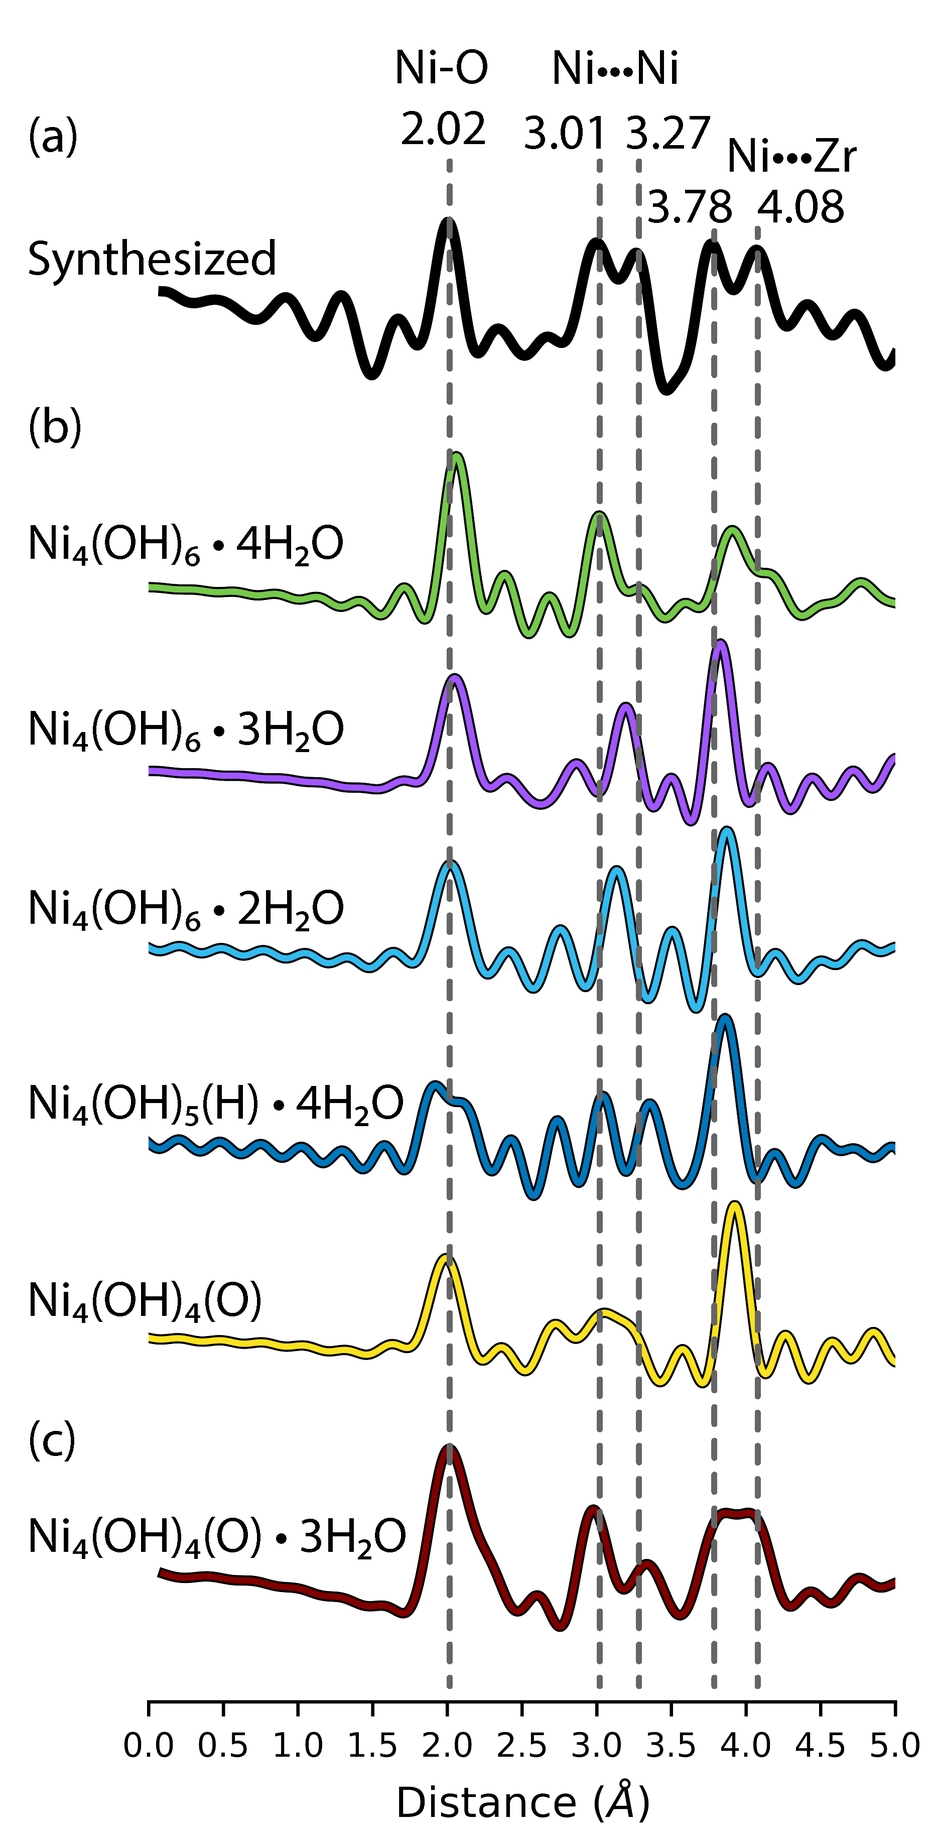
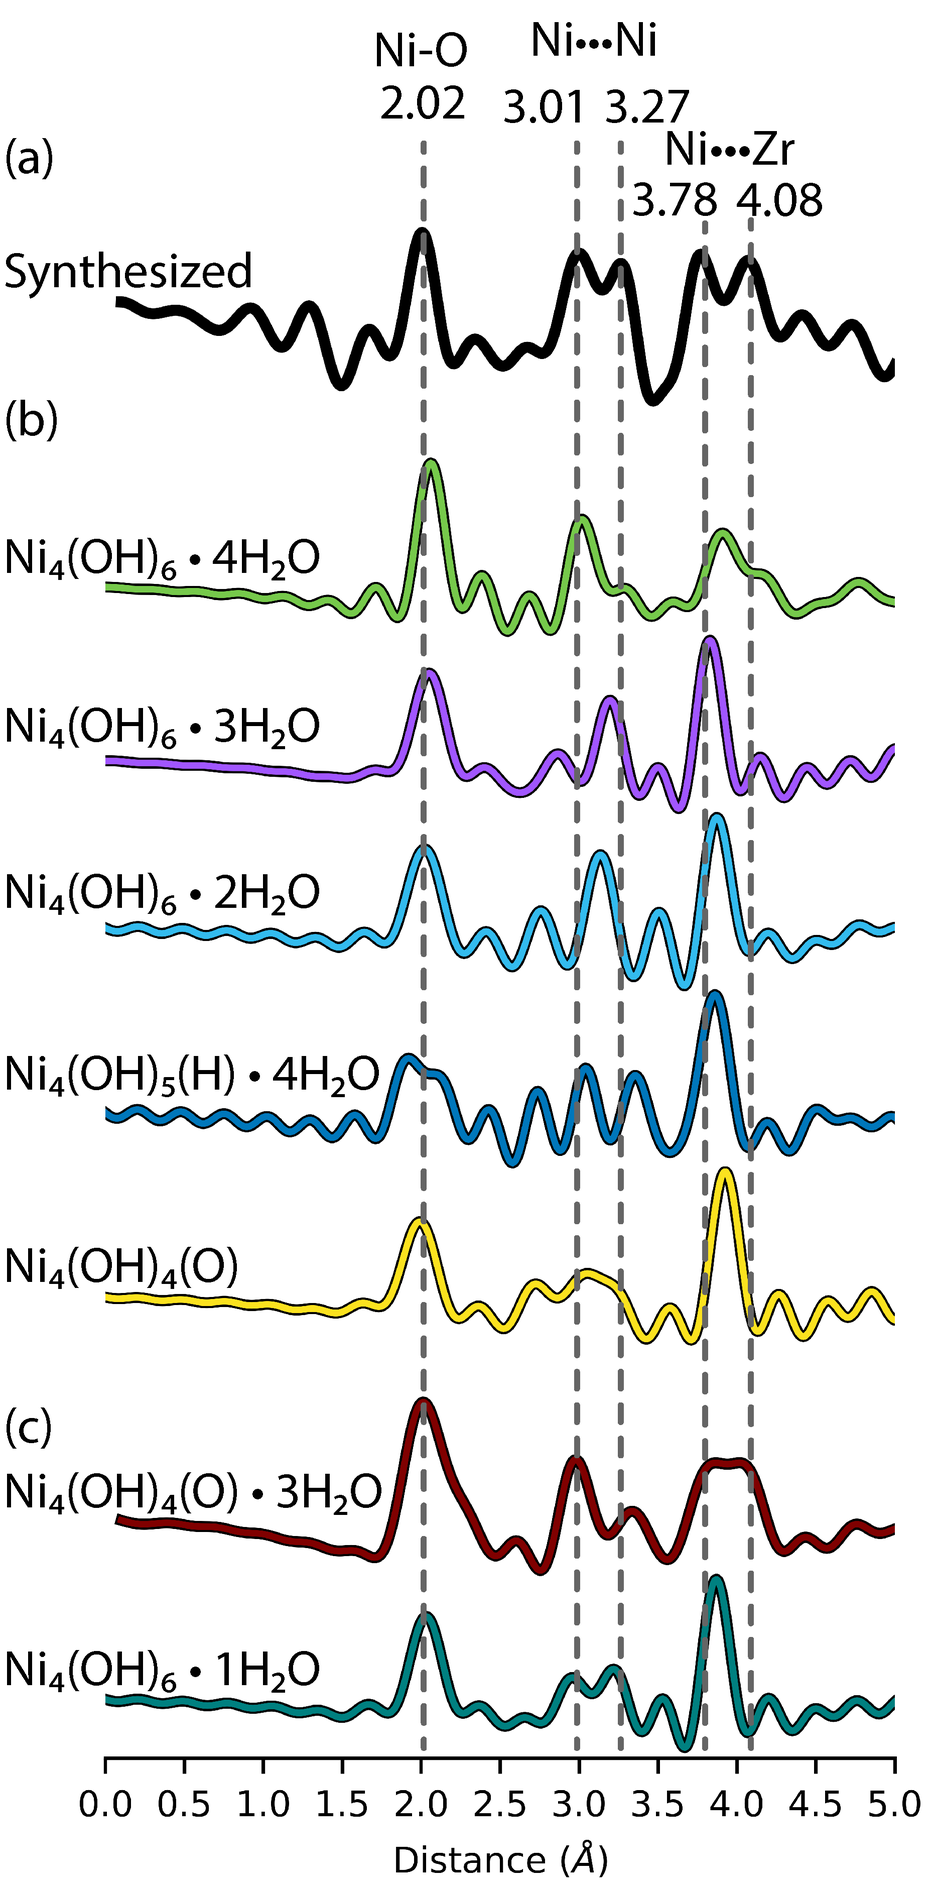
sending the charges to Overleaf as backup

diff --git a/outline.tex b/outline.tex
@@ -155,13 +155,15 @@ Heterogeneous catalysts exhibit dynamic changes in composition and structure as 
 %% Introduction
 %%%%%%%%%%%%%%%%%%%%%%%%%%%%%%%%%%%%%%%%%%%%%%%%%%%%%%%%%%%%%%%%%%%%%
 
-Single-site heterogeneous catalysts (SSHCs) contain well-defined, atomically dispersed active sites that are anchored to solid supports,\cite{Hlatky2000, Kaiser2020, Wasson2019} such as metal-organic frameworks (MOFs),\cite{Zheng2019, AbdelMageed2019, Huang2019} covalent-organic frameworks (COFs),\cite{Zhong2019, Romero-Muniz2020} zeolites,\cite{Mao2016, Kistler2014} and metal\cite{Patel2019, Pei2017, Jiao2019} and metal oxide surfaces.\cite{Bo2019, Riley2018, Tang2019} The atomically dispersed atoms are often 3d transition metals,\cite{Manna2016, Beyzavi2015} with the solid support providing a means to improve metal utilization and maintain well-defined active site structures.\cite{Qiao2011, Cui2017, Yang2013} The metal atoms are anchored to the support either directly (metal-metal bonds) or by organic ligands (e.g., \ce{OH}-ligands), with the attachment dependent on the type of support. In some cases, the ligand environments may be similar to homogeneous catalysts.\cite{Rogge2017} Also similar to homogeneous catalysts, active site structures for SSHCs can be tuned by changing the ligand environment and metal atoms. SSHCs are hence appealing for carrying out challenging chemistries.\cite{Thomas2005, Liu2019, Desai2018}
+Single-site heterogeneous catalysts (SSHCs) contain well-defined, atomically dispersed active sites that are anchored to solid supports,\cite{Hlatky2000, Kaiser2020, Wasson2019} such as metal-organic frameworks (MOFs),\cite{Zheng2019, AbdelMageed2019, Huang2019} covalent-organic frameworks (COFs),\cite{Zhong2019, Romero-Muniz2020} zeolites,\cite{Mao2016, Kistler2014} and metal\cite{Patel2019, Pei2017, Jiao2019} and metal oxide surfaces.\cite{Bo2019, Riley2018, Tang2019} The atomically dispersed atoms are often 3d transition metals,\cite{Manna2016, Beyzavi2015} with the solid support providing a means to improve metal utilization and maintain well-defined active site structures.\cite{Qiao2011, Cui2017, Yang2013} The metal atoms are anchored to the support either directly (metal-metal bonds) or by organic ligands (e.g., \ce{OH}-ligands), with the attachment dependent on the type of support. In some cases, the ligand environments may be similar to homogeneous catalysts.\cite{Rogge2017} Also similar to homogeneous catalysts, SSHCs can be tuned by changing the ligand environment and metal atoms. SSHCs are hence appealing for carrying out challenging chemistries.\cite{Thomas2005, Liu2019, Desai2018}
 
-For SSHCs, the structural environments (i.e, the coordinate ligands) of the metal atom centers drive the catalysis.\cite{DeRita2019} However, predicting the ligand environment of any SSHC is non-trivial due to the uniqueness of active site,\cite{Daelman2019, Tang2019} and is further complicated by structural changes induced by operating conditions.\cite{Li2018, Kim2015} Understanding the SSHC ligand environment is imperative to understand the catalytic mechanisms that occur. Difficulties in determining the precise active site for SSHCs remain an ongoing challenge, with a lack of structural information about the active site preventing detailed structures-function relationships between catalyst structure and performance.
+For SSHCs, the structural environments (i.e, the coordinate ligands) of the metal atom centers drive the catalysis.\cite{DeRita2019} However, predicting the ligand environment of SSHCs is non-trivial due to the variety of unique of active sites,\cite{Daelman2019, Tang2019} and this is further complicated when catalytic operating conditions induce non-intuitive structural and/or compositional changes.\cite{Li2018, Kim2015} As understanding the structure and composition of SSHCs is imperative to understanding catalytic mechanisms, difficulties in determining the precise active site for SSHCs remain an ongoing challenge, with this lack of information preventing construction of detailed structure-function relationships. 
 
-In this work, we seek to learn the composition and structure of a \ce{Ni} SSHC under conditions relevant to catalytic hydrogenation. \ce{Ni}-based catalysts are important in a variety of reactions, including ethene oligomerization using the Shell higher oligomers process (SHOP)\cite{1988Reuben} and the steam reforming of methane using the Catalytic Rich Gas (CRG) catalyst.\cite{Ross1973} Specifically, we investigate a \ce{Ni} cluster supported on the MOF NU-1000, herein denoted Ni-NU-1000. MOFs are porous crystals that consist of metal cation nodes connected by organic ``linker" molecules.\cite{Li1999} NU-1000 (Figure~\ref{fig:Ni-MOF-model}a) is comprised of \ce{Zr6(\mu_{3}-O)4(\mu_{3}-OH)4(H2O)4(OH)4} nodes interconnected with tetratopic 1,3,6,8-tetrakis (p-benzoate) pyrene (TBAPy) linkers. The \ce{Ni} ions are known to anchor to the NU-1000 nodes via the accessible \ce{-OH}/\ce{-OH2} ligands on the \ce{Zr6} nodes, with Atomic Layer Deposition in MOFs (AIM) depositing the \ce{Ni} atoms.\cite{Mondloch2013} Initially, the structure was thought to consist of a single divalent \ce{Ni} ion coordinated with zero to three \ce{H2O} ligands, depending on the operating conditions.\cite{Li2016sintering} However, difference envelope density (DED) analysis of powder diffraction data and electron microscopy later revealed that the catalyst is four \ce{Ni} ion cluster (\ce{Ni4O_{x}H_{y}}) and contains a combination of hydroxo (\ce{OH}) and water \ce{H2O} ligands.\cite{PlateroPrats2017} Additional computational studies by \citeauthor{Ye2017} then suggested the four \ce{Ni} ion cluster is attached to adjacent nodes within Ni-NU-1000.\cite{Ye2017} Key questions remain about the precise ligand environment of the \ce{Ni} ions. Prior literature for Ni-NU-1000 suggests that the \ce{Ni} ions are interconnected by \ce{OH}-ligands and are coordinated by \ce{H2O}-ligands; however, the precise ligand environment (i.e., the composition and arrangement of the ligands) isn't fully established. Additionally, several modeling studies for catalytic ethylene hydrogenation\cite{Li2016sintering, Shabbir2020} and dimerization\cite{Ye2017} in Ni-NU-1000 utilize a \ce{Ni} hydride (\ce{Ni-H}) active site model, which \citeauthor{Yeh2021} determined is the preferred active site model for a \ce{Ni} ion cluster supported on the UiO-66 MOF (rather than NU-1000).\cite{Yeh2021} Addressing questions related to the active site structure are important in improving these Ni-NU-1000 catalysts, and the results will be useful for understanding ligand environments in other 3d transition metal ion catalysts as well.   
+In this work, we seek to learn the composition and structure of a \ce{Ni} SSHC under conditions relevant to catalytic hydrogenation. We are interested in \ce{Ni} catalysts because of their importance in a variety of reactions, including ethene oligomerization using the Shell higher oligomers process (SHOP)\cite{1988Reuben} and the steam reforming of methane using the Catalytic Rich Gas (CRG) catalyst.\cite{Ross1973} Specifically, we investigate a \ce{Ni} cluster supported on the metal-organic framework (MOF) NU-1000 (Figure~\ref{fig:Ni-MOF-model}a). NU-1000 is comprised of \ce{Zr6(\mu_{3}-O)4(\mu_{3}-OH)4(H2O)4(OH)4} nodes interconnected with tetratopic 1,3,6,8-tetrakis (p-benzoate) pyrene (TBAPy) linkers. \ce{Ni} catalysts anchor to the nodes via the accessible \ce{-OH}/\ce{-OH2} ligands, forming the Ni-NU-1000 catalyst.\cite{Mondloch2013} Initially, the catalyst structure was thought to consist of a single divalent \ce{Ni} ion coordinated with zero to three \ce{H2O} ligands, depending on the operating conditions.\cite{Li2016sintering} However, difference envelope density (DED) analysis of powder diffraction data and electron microscopy later revealed that the catalyst comprises multiple \ce{Ni} ions.\cite{PlateroPrats2017} Computational analysis suggested that the cluster comprises four \ce{Ni} ions, which were hypothesized to coordinate to a combination of hydroxo (\ce{OH}) and water \ce{H2O} ligands.\cite{Ye2017} The active site for catalytic hydrogenation is thought to be a \ce{Ni} hydride (\ce{Ni-H}).\cite{Li2016sintering} Simulations of catalytic activity performed using \ce{Ni-H} active site models for both hydrogenation and oligomerization indeed show good agreement with experimental observations.\cite{Li2016sintering, Shabbir2020,Yeh2021} However, key questions remain about the precise ligand environment of the \ce{Ni} ions present during catalysis. Addressing questions related to the active site structure are important in improving these Ni-NU-1000 catalysts, and the results will be useful for understanding ligand environments in other SSHCs as well.   
 
-Along these lines, in this work, we explore the ligand environment of a four ion \ce{Ni} cluster under conditions relevant to catalytic hydrogenation (specifically conditions with exposure to \ce{H2} gas during the activation step). Prior experimental work on Ni-NU-1000 enables comparisons between computational and experimental characterization. We combine differential pair distribution function (d-PDF) analysis, density functional theory (DFT), and \textit{ab initio} thermodynamic modeling to learn the ligand environment of Ni-NU-1000. We find that highly coordinated \ce{Ni} ions (\ce{Ni-O} coordination $\sim$5) that contain an asymmetric arrangement of \ce{OH}, \ce{H2O}, and \ce{O} ligands show the best agreement with experimental results. Structures that can achieve such high \ce{Ni} coordination exhibit large chemical potentials of \ce{H2O} even under reducing conditions, suggesting that NU-1000 is able to store \ce{H2O} under these conditions. Notably, we only identify one structure featuring a \ce{Ni} hydride in thermodynamic modeling, despite the the consensus that metal (M) hydrides are part of the active site in M-NU-1000 catalysts. Our results provide insights into the local coordination of the \ce{Ni} metal cluster that will be useful in hypothesizing and modeling catalytic mechanisms on such catalysts. 
+Along these lines, in this work, we explore the ligand environment of a four ion \ce{Ni} cluster under conditions relevant to catalytic hydrogenation. Specifically, we combine differential pair distribution function (d-PDF) analysis, density functional theory (DFT), and \textit{ab initio} thermodynamic modeling to provide insight into the ligand environment of a \ce{Ni4}-NU-1000. We find that \ce{Ni} ions are highly coordinated, with \ce{Ni-O} numbers of $\sim$5. Ligands comprise \ce{OH}, \ce{H2O}, and possibly \ce{O} ligands and likely exhibit some asymmetry.  show the best agreement with experimental results. Notably, our modeling results indicate that structures featuring \ce{Ni} hydride exhibit d-PDFs that are more asymmetric than the experimentally observed d-PDF. Further, \ce{Ni} hydride structures have coordination numbers notably smaller than 5. These results indicate that the active site in hydrogenation may not be   and less coordinated  in thermodynamic modeling, despite the the consensus that metal (M) hydrides are part of the active site in M-NU-1000 catalysts. Our results provide insights into the local coordination of the \ce{Ni} metal cluster that will be useful in hypothesizing and modeling catalytic mechanisms on such catalysts. 
+
+% move to conclusions or discussion and conclusions: Structures that can achieve such high \ce{Ni} coordination exhibit large chemical potentials of \ce{H2O} even under reducing conditions, suggesting that NU-1000 is able to store \ce{H2O} under these conditions.
 
 \begin{figure}
     \centering
@@ -253,11 +255,11 @@ Figure~\ref{fig:phase_diagram_Ni} plots a phase diagram constructed using \texti
 
 To compare with experiment, d-PDFs for all structures on the phase diagram with \ce{Ni-O} coordination numbers $\ge$ 4 are shown in Figure~\ref{fig:dPDFs-graphic}b. We seek structures that give good agreement with the \ce{Ni-O} and \ce{Ni{\Compactcdots}Ni} peaks seen in the experimental d-PDF, as we find these peaks may be related to structural phenomena that, at present, aren't fully incorporated into any molecular models. \ce{Ni-O} peaks in general agree well with experiment, except for \ce{Ni4(OH)5(H).4H2O} (blue), which exhibits asymmetric split peaks instead of a single peak. From Figure~\ref{fig:Ni-structure-diagram}, this asymmetry is likely caused by an asymmetric ligand environment (Figure~\ref{fig:Ni-MOF-structures}b). Specifically, in addition to \ce{OH} and \ce{H2O} ligands, the \ce{Ni4(OH)5(H).4H2O} (blue) structure comprises a Ni hydride (\ce{H} ligand) as well as a bridge of \ce{H2O} molecules that connect one \ce{Ni} ion with a \ce{OH} ligand on the opposite side of the cluster. That asymmetry in the \ce{Ni-O} peak is not observed experimentally indicates that the ligand environments on the different \ce{Ni} ions in the synthesized structure are more similar than those in structure \ce{Ni4(OH)5(H).4H2O} (blue).  
 
-There is less agreement between simulations and experiments for the \ce{Ni{\Compactcdots}Ni} peaks in the d-PDFs in Figure~\ref{fig:dPDFs-graphic}. In the experimental d-PDF, these peaks are split, suggesting that there is at least some asymmetry in the cluster; however, most of the simulated structures exhibit a single \ce{Ni{\Compactcdots}Ni} peak. The two exceptions are \ce{Ni4(OH)5(H).4H2O} (blue) and \ce{Ni4(OH)4(O)} (yellow), which are shown in Figure~\ref{fig:Ni-MOF-structures}b and c respectively. While \ce{Ni4(OH)5(H).4H2O} (blue) exhibits a highly asymmetric ligand environment including a \ce{H2O} molecule chain and a \ce{Ni} hydride, \ce{Ni4(OH)4(O)} (yellow) comprises mainly \ce{OH} ligands and one \ce{O} ligand (but no \ce{H2O} or \ce{H} ligands). Taken together, these comparisons suggest that the synthesized catalyst exhibits a mix of \ce{OH}, \ce{H2O}, and \ce{O} ligands.
+There is less agreement between simulations and experiments for the \ce{Ni{\Compactcdots}Ni} peaks in the d-PDFs in Figure~\ref{fig:dPDFs-graphic}. In the experimental d-PDF, these peaks are split, suggesting that there is at least some asymmetry in the cluster; however, most of the simulated structures exhibit a single \ce{Ni{\Compactcdots}Ni} peak. The exceptions are \ce{Ni4(OH)5(H).4H2O} (blue) and \ce{Ni4(OH)4(O)} (yellow), which are shown in Figure~\ref{fig:Ni-MOF-structures}b and c respectively. While \ce{Ni4(OH)5(H).4H2O} (blue) exhibits a highly asymmetric ligand environment including a \ce{H2O} molecule chain and a \ce{Ni} hydride, \ce{Ni4(OH)4(O)} (yellow) comprises mainly \ce{OH} ligands and one \ce{O} ligand (but no \ce{H2O} or \ce{H} ligands). Taken together, these comparisons suggest that the synthesized catalyst exhibits a mix of \ce{OH}, \ce{H2O}, and \ce{O} ligands.
 
-In order to provide further molecular-level insight into the ligand environment of Ni-NU-1000, we generated d-PDFs for the remaining structures in the database (i.e., for the remaining structures not included in Figure~\ref{fig:phase_diagram_Ni}). The structure that gives the best agreement with experiment is \ce{Ni4(OH)4)(O).3H2O} (maroon), which is depicted in Figures~\ref{fig:Ni-MOF-structures}d and \ref{fig:Ni-structure-diagram}b. The d-PDF for this structure is given in Figure~\ref{fig:dPDFs-graphic}c. The \ce{Ni4(OH)4)(O).3H2O} (maroon) structure exhibits a single \ce{Ni-O} peak that is somewhat broader than the for the synthesized structure. It also exhibits split \ce{Ni{\Compactcdots}Ni} peaks like the synthesized structure, although their intensities are somewhat different. The \ce{Ni4(OH)4)(O).3H2O} (maroon) structure exhibits a \ce{Ni-O} coordination number of 5.0 and a mixture of \ce{OH}, \ce{H2O}, and \ce{O} ligands. The ligand environment is asymmetric, leading to split \ce{Ni{\Compactcdots}Ni} peaks at distances in agreement with those observed experimentally. Though this structure is not a thermodynamic minimum according to \textit{ab initio} thermodynamic analysis, we find it competes with the phase space of \ce{Ni4(OH)6.2H2O} (cyan) structure on Figure~\ref{fig:phase_diagram_Ni}; the \ce{Ni4(OH)4)(O).3H2O} (maroon) structure is ~358 kJ/mol of \ce{Ni4(OH)6.2H2O} (cyan) structure.
+In order to provide further molecular-level insight into the ligand environment of Ni-NU-1000, we generated d-PDFs for the remaining structures in the database (i.e., for the remaining structures not included in Figure~\ref{fig:phase_diagram_Ni}). The structures that give the best agreement with experiments are \ce{Ni4(OH)4)(O).3H2O} (maroon), which is depicted in Figures~\ref{fig:Ni-MOF-structures}d and \ref{fig:Ni-structure-diagram}b, and \ce{Ni4(OH)6.1H2O} (teal), shown in Figure~\ref{fig:Ni-structure-diagram}b. The d-PDFs for these structures are given in Figure~\ref{fig:dPDFs-graphic}c. The \ce{Ni4(OH)4)(O).3H2O} (maroon) structure exhibits a single \ce{Ni-O} peak that is somewhat broader than the for the synthesized structure. It also exhibits split \ce{Ni{\Compactcdots}Ni} peaks like the synthesized structure, although their intensities are somewhat different. The \ce{Ni4(OH)4)(O).3H2O} (maroon) structure exhibits a \ce{Ni-O} coordination number of 5.0 and a mixture of \ce{OH}, \ce{H2O}, and \ce{O} ligands. The ligand environment is asymmetric, leading to split \ce{Ni{\Compactcdots}Ni} peaks at distances in agreement with those observed experimentally. Comparatively, the \ce{Ni4(OH)6.1H2O} (teal) features a less asymmetric ligand environment compared to \ce{Ni4(OH)4)(O).3H2O} (maroon) with a single \ce{H2O} ligand coordinated to one of the \ce{Ni} ions. Yet, the \ce{Ni4(OH)6.1H2O} (teal) structure exhibits a well-defined single \ce{Ni-O} peak and split \ce{Ni{\Compactcdots}Ni} peaks that have similar intensities. This suggests that even slight asymmetries in the coordination environment can lead to split \ce{Ni{\Compactcdots}Ni} peaks. Though these structures are not a thermodynamic minimum according to \textit{ab initio} thermodynamic analysis, we find that both structures compete with the phase space of \ce{Ni4(OH)6.2H2O} (cyan) structure in Figure~\ref{fig:phase_diagram_Ni}. The difference in free energy relative to the \ce{Ni4(OH)6.2H2O} (cyan) structure for \ce{Ni4(OH)4)(O).3H2O} (maroon) structure is ~350 kJ/mol and for \ce{Ni4(OH)6.1H2O} (teal) is ~170 kJ/mol (Figure S\hl{XXX}). 
 
-The last remaining feature of the d-PDFs not yet explored in this work is the \ce{Ni{\Compactcdots}Zr} peak. As for the \ce{Ni{\Compactcdots}Ni} peak, the synthesized structure exhibits split peaks whereas most of the simulated structures exhibit a single peak. The exceptions are the \ce{Ni4(OH)6.4H2O} (green) and \ce{Ni4(OH)4)(O).3H2O} (maroon) structures. While the \ce{Ni4(OH)4)(O).3H2O} (maroon) structure has an asymmetric ligand environment and hence split peaks for distances involving \ce{Ni} are expected, the \ce{Ni4(OH)6.4H2O} (green) structure is highly symmetric. Hence, the split \ce{Ni{\Compactcdots}Zr} peaks may not be caused entirely by asymmetry. Alternatively, the split peaks could be caused by unit cell asymmetry caused by node distortions, which has been previously observed for NU-1000 during \ce{Ni} deposition using AIM and under conditions relevant for catalytic hydrogenation.\cite{PlateroPrats2016} Alternatively the split peaks may arise due to different ligand environments on the \ce{Zr} ions, which we have not explored computationally.
+The last remaining feature of the d-PDFs not yet explored in this work is the \ce{Ni{\Compactcdots}Zr} peak. As for the \ce{Ni{\Compactcdots}Zr} peak, the synthesized structure exhibits split peaks whereas only one of the simulated structures exhibit a single peak. The exception is the \ce{Ni4(OH)4)(O).3H2O} (maroon) structure; the structure has an asymmetric ligand environment and hence split peaks for distances involving \ce{Ni} are expected. The \ce{H2O} coordinated to two \ce{Ni} ions occupies a binding site of an \ce{\mu_{2}OH} ligand seen in the other structures (Figure~\ref{fig:Ni-structure-diagram}). Alternatively, the split peaks could be caused by unit cell asymmetry caused by node distortions, which has been previously observed for NU-1000 during \ce{Ni} deposition using AIM and under conditions relevant for catalytic hydrogenation.\cite{PlateroPrats2016} Alternatively the split peaks may arise due to different ligand environments on the \ce{Zr} ions, which we have not explored computationally.
 
 Interestingly, only one structure comprising a \ce{Ni} hydride, i.e., structure \ce{Ni4(OH)5(H).4H2O} (blue), appears on the phase diagram. While this structure exhibits some characteristics in agreement with the synthesized structure, including split \ce{Ni{\Compactcdots}Ni} and \ce{Ni{\Compactcdots}Zr} peaks, it also exhibits split \ce{Ni-O} peaks, which is not observed experimentally, likely due to the significantly different ligand environment created by the hydride itself. These results suggest that the synthesized structure does not include a hydride. This could mean that the active site for hydrogenation catalysis is not a hydride, but rather a \ce{Ni} ion comprising \ce{OH} and/or \ce{H2O} ligands. Alternatively, it could mean that a small fraction (small enough so as to not dominate d-PDF results) of \ce{Ni} clusters within the NU-1000 structure comprise hydrides, and that it is these clusters that are active for hydrogenation catalysis. Further simulations and experiments are needed to clarify these details. 
 

diff --git a/zz_old_text/04-old_results.tex b/zz_old_text/04-old_results.tex
@@ -51,3 +51,9 @@ where $G$ is the Gibbs free energy, $P$ is partial pressure, and $P^{o}$ is the 
 
 
 % The first peak at 2.74 {\AA} is comprised of 2.70{\AA} and 2.87 {\AA} \ce{Ni{\Compactcdots}Ni} distances while the second peak at 3.06 {\AA} is from the 3.02 {\AA}, 3.11 {\AA}, and 3.20 {\AA} \ce{Ni{\Compactcdots}Ni} distances. The split peaks in \ce{Ni4(OH)5(H).4H2O} (blue) occurring at 2.75 {\AA}, 3.05 {\AA}, and 3.37 {\AA} are generated by \ce{Ni{\Compactcdots}Ni} distances of 2.77 {\AA}, 3.04 {\AA}, 3.04 {\AA}, 3.28 {\AA}, and 3.38 {\AA}, respectively. is caused by the distribution of \ce{Ni{\Compactcdots}Ni} distances.
+
+
+
+% maroon only structures
+
+In order to provide further molecular-level insight into the ligand environment of Ni-NU-1000, we generated d-PDFs for the remaining structures in the database (i.e., for the remaining structures not included in Figure~\ref{fig:phase_diagram_Ni}). The structure that gives the best agreement with experiment is \ce{Ni4(OH)4)(O).3H2O} (maroon), which is depicted in Figures~\ref{fig:Ni-MOF-structures}d and \ref{fig:Ni-structure-diagram}b. The d-PDF for this structure is given in Figure~\ref{fig:dPDFs-graphic}c. The \ce{Ni4(OH)4)(O).3H2O} (maroon) structure exhibits a single \ce{Ni-O} peak that is somewhat broader than the for the synthesized structure. It also exhibits split \ce{Ni{\Compactcdots}Ni} peaks like the synthesized structure, although their intensities are somewhat different. The \ce{Ni4(OH)4)(O).3H2O} (maroon) structure exhibits a \ce{Ni-O} coordination number of 5.0 and a mixture of \ce{OH}, \ce{H2O}, and \ce{O} ligands. The ligand environment is asymmetric, leading to split \ce{Ni{\Compactcdots}Ni} peaks at distances in agreement with those observed experimentally. Though this structure is not a thermodynamic minimum according to \textit{ab initio} thermodynamic analysis, we find it competes with the phase space of \ce{Ni4(OH)6.2H2O} (cyan) structure on Figure~\ref{fig:phase_diagram_Ni}; the \ce{Ni4(OH)4)(O).3H2O} (maroon) structure is ~358 kJ/mol of \ce{Ni4(OH)6.2H2O} (cyan) structure.
